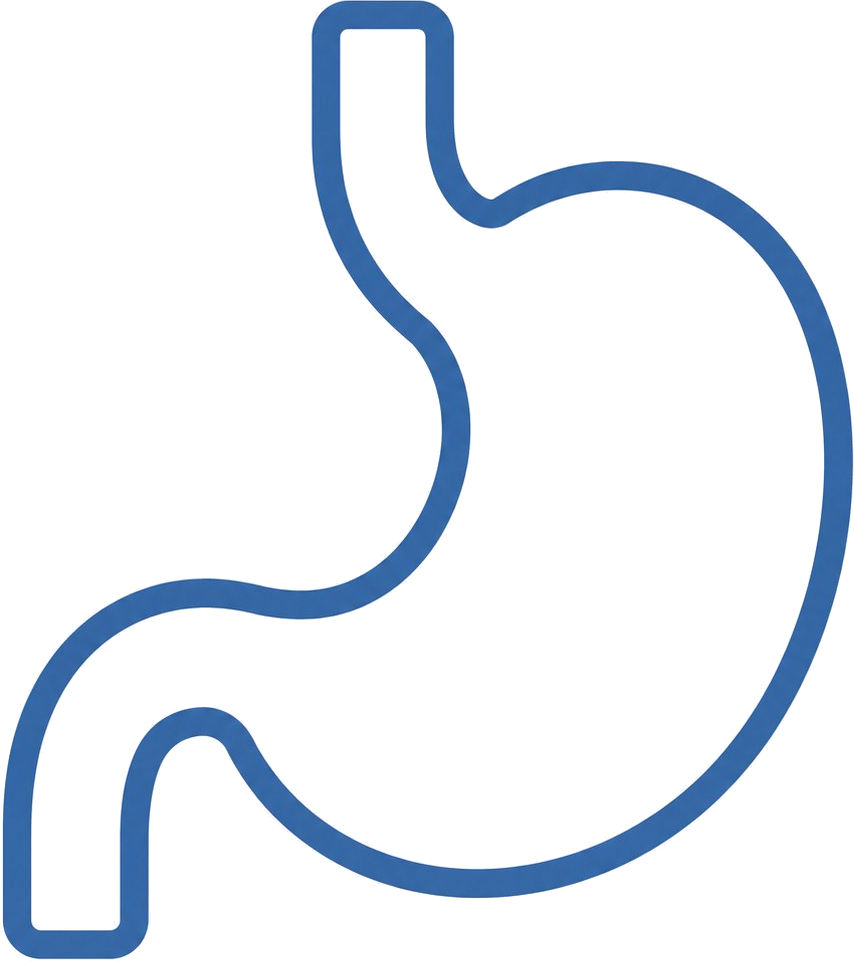
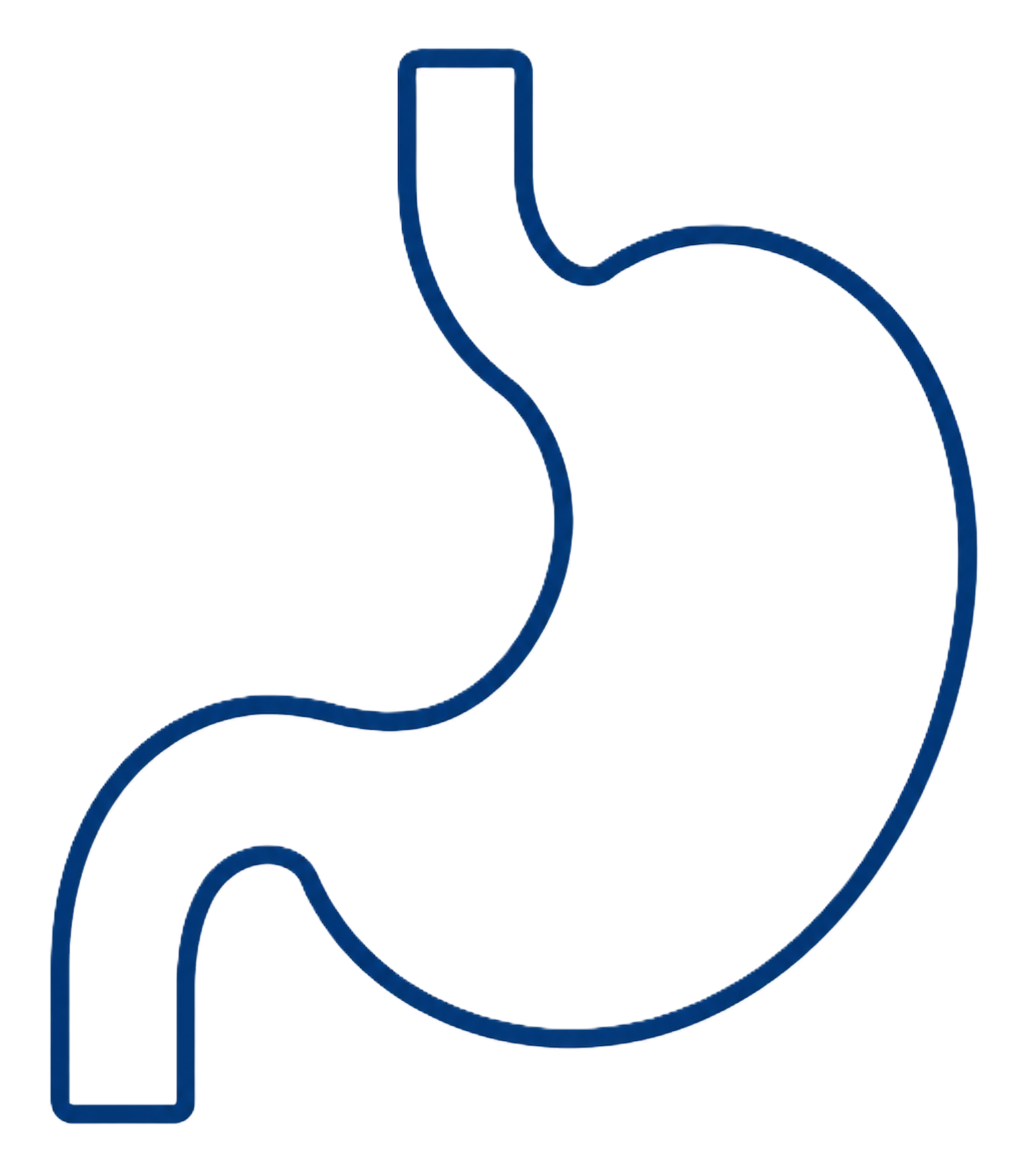
update

Changed region(s): [[0.0, 0.0, 1.0, 0.999]]

diff --git a/clinic/app/globals.css b/clinic/app/globals.css
@@ -586,7 +586,7 @@ ul {
   }
 
   .mobile-menu-actions a:first-child {
-    background: var(--accent-yellow);
+    background: var(--primary-blue);
     color: #fff;
   }
 
@@ -629,9 +629,10 @@ ul {
 
   .mobile-menu-schedule .editorial-schedule-table th:first-child {
     width: 32%;
-    font-size: 0.6rem;
+    font-size: 0.9rem;
     text-align: left;
     white-space: nowrap;
+    color: #173957;
   }
 
   .mobile-menu-schedule .editorial-schedule-table td {
@@ -646,6 +647,7 @@ ul {
     font-weight: 400;
     text-align: left;
     letter-spacing: -0.02em;
+    color: #173957;
   }
 
   .mobile-menu-schedule .editorial-schedule-table .closed {
@@ -2882,6 +2884,9 @@ ul {
 .editorial-schedule-table th:first-child {
   width: 38%;
   text-align: left;
+  font-size: 0.95rem;
+  font-weight: 700;
+  color: #173957;
 }
 
 .editorial-schedule-table td {
@@ -3163,7 +3168,7 @@ ul {
   }
 
   .editorial-schedule-table th:first-child {
-    font-size: 0.8rem;
+    font-size: 0.9rem;
     width: 35%;
   }
 
@@ -3243,7 +3248,7 @@ ul {
   }
 
   .editorial-schedule-table th:first-child {
-    font-size: 0.74rem;
+    font-size: 0.85rem;
   }
 
   .editorial-schedule-table .time-slot {
@@ -7463,7 +7468,7 @@ ul {
 }
 
 .hero-editorial {
-  --hero-blue: #3d62ad;
+  --hero-blue: var(--primary-blue);
   min-height: 100svh;
   padding: 0 0 28px;
   background: var(--fv-bg);
@@ -8592,12 +8597,12 @@ ul {
 
 .header-menu-button {
   position: fixed;
-  top: 15px;
-  right: 15px;
-  width: 48px;
-  height: 48px;
+  top: 0;
+  right: 0;
+  width: 64px;
+  height: 64px;
   background: var(--primary-blue);
-  border-radius: 10px;
+  border-radius: 0 0 0 4px;
   display: none;
   flex-direction: column;
   justify-content: center;